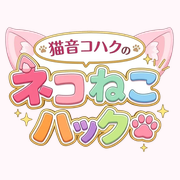
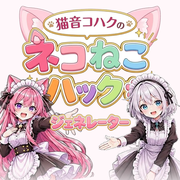
ホーム画面アイコンを新しいデザインに変更（ロゴ＋コハク・雪歩の紹介ポーズ＋ジェネレーターのレタリング）

diff --git a/sw.js b/sw.js
@@ -3,7 +3,7 @@
    - Page navigations are network-first so updates arrive when online.
    - Other same-origin files (images, audio, video) are cached on first use.
    Bump CACHE_VERSION whenever the app is updated. */
-var CACHE_VERSION = "nnh-v4";
+var CACHE_VERSION = "nnh-v5";
 var CORE = [
   "./",
   "./index.html",
